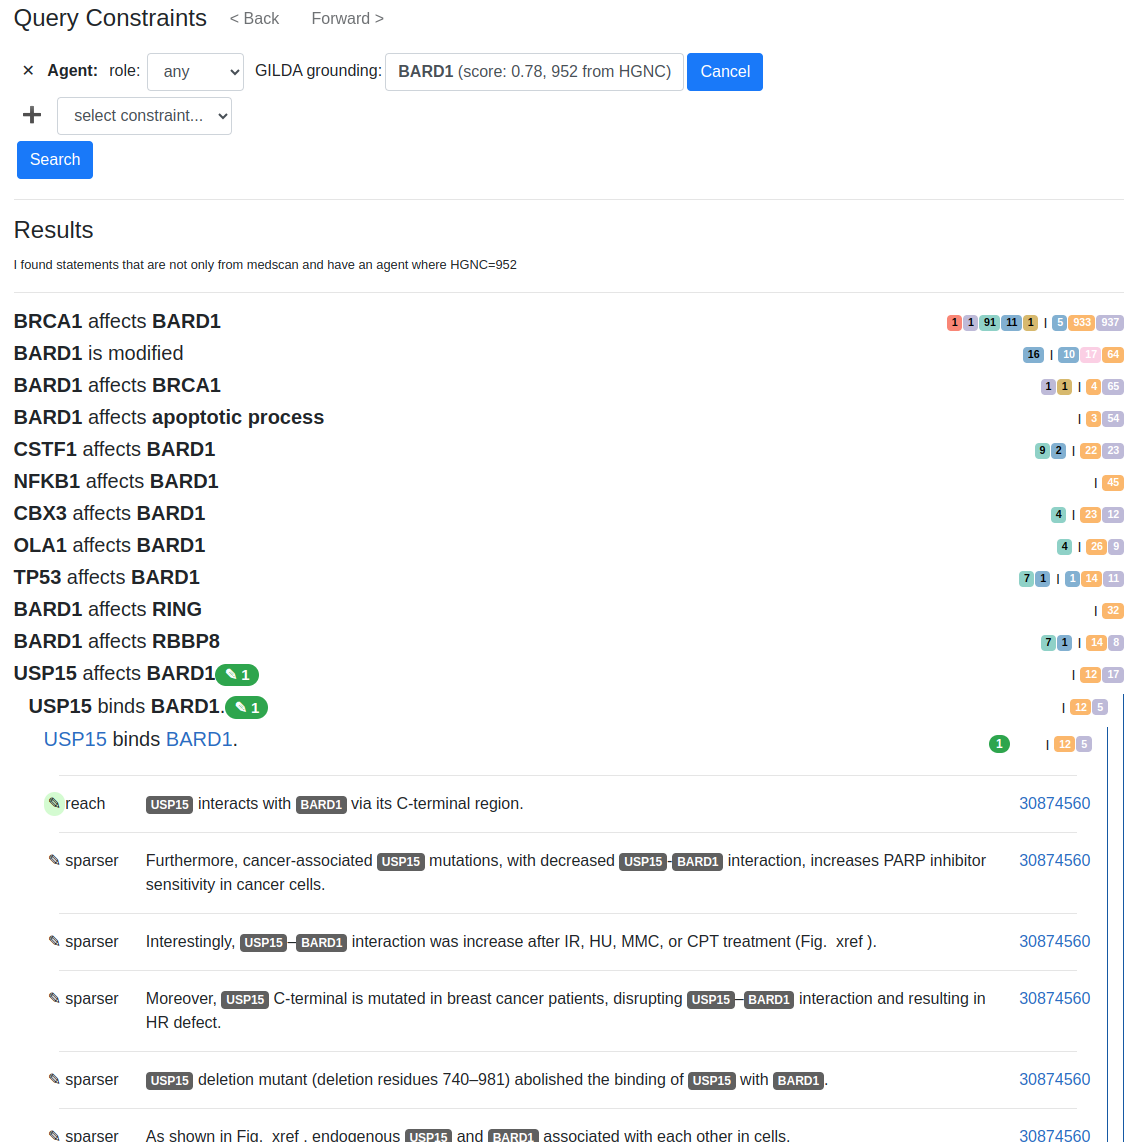
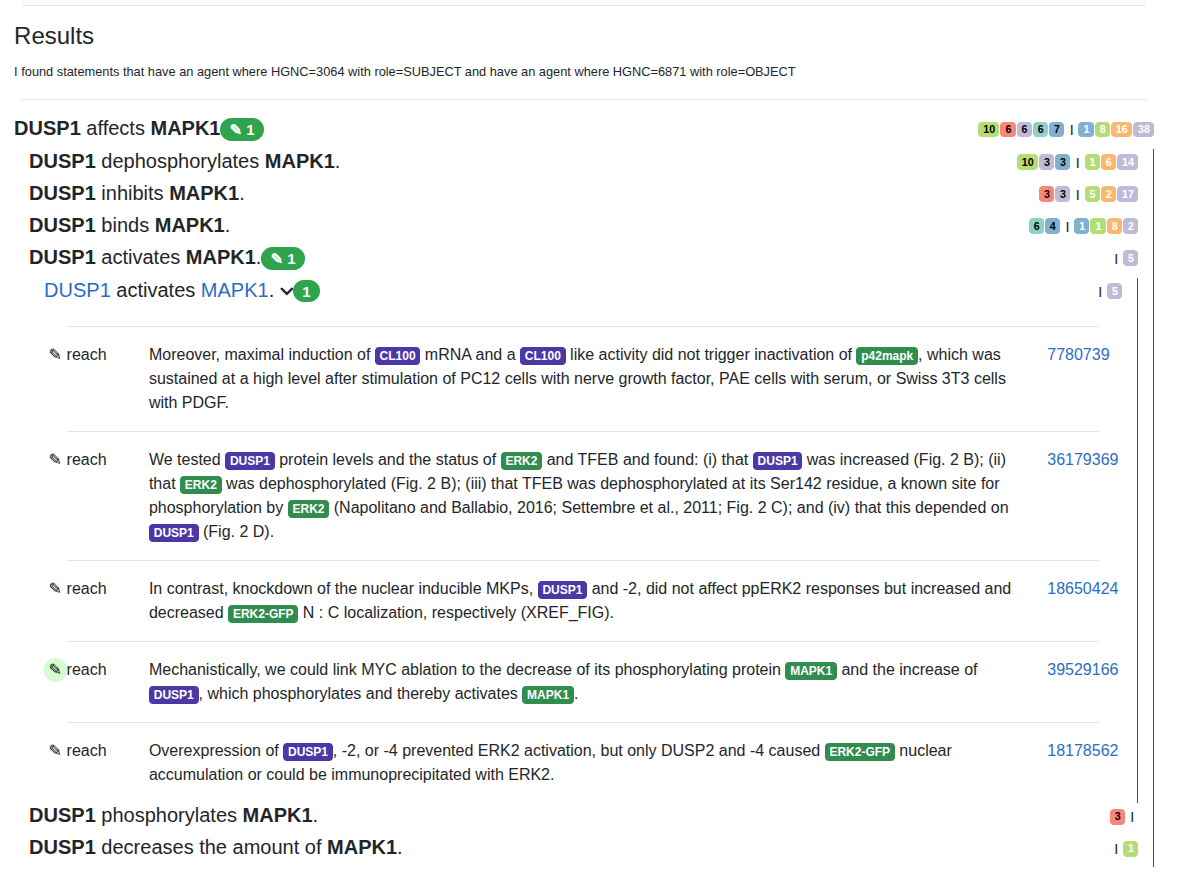
Update docs structure and web ui image

diff --git a/doc/web_ui_doc/index.rst b/doc/web_ui_doc/index.rst
@@ -1,1 +1,1 @@
-.. mdinclude:: ../../indra_db_service/search_introduction.md
+.. include:: ../../indra_db_service/search_introduction.rst

diff --git a/doc/rest_api_doc/readme_link.rst b/doc/rest_api_doc/readme_link.rst
@@ -1,2 +1,1 @@
-.. mdinclude:: ../../indra_db_service/README.md
-
+.. include:: ../../indra_db_service/README.rst
